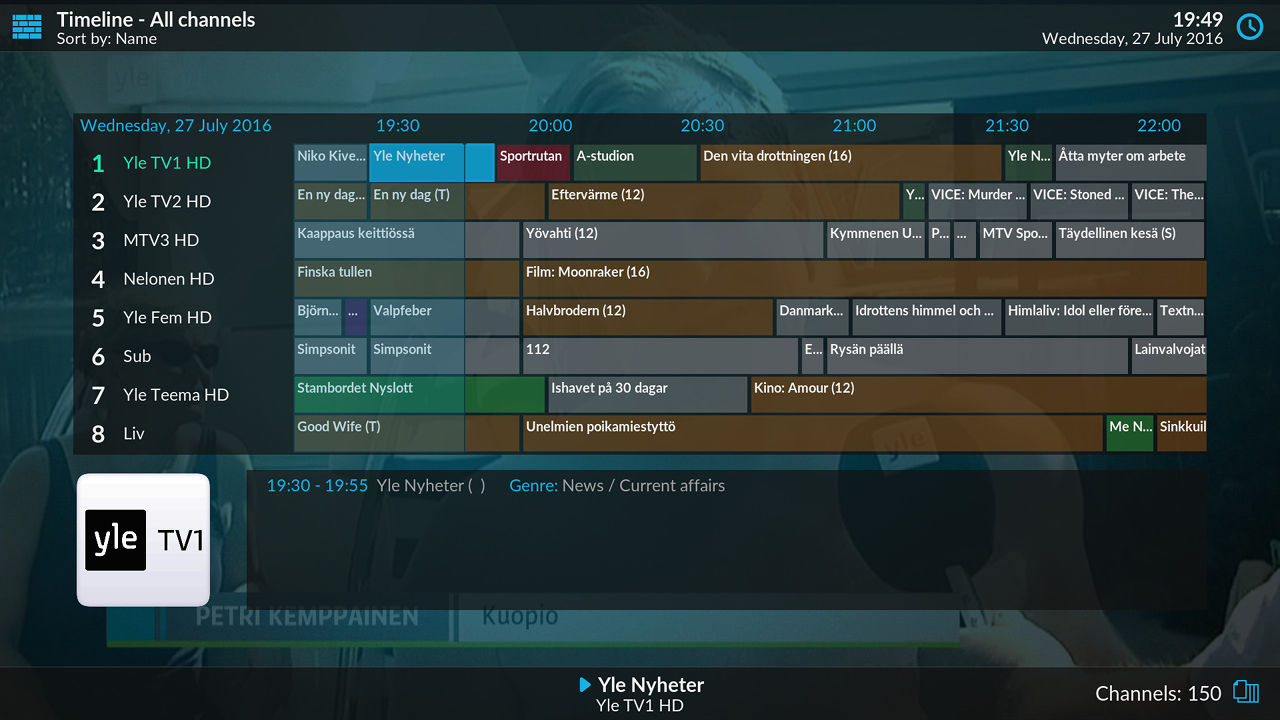
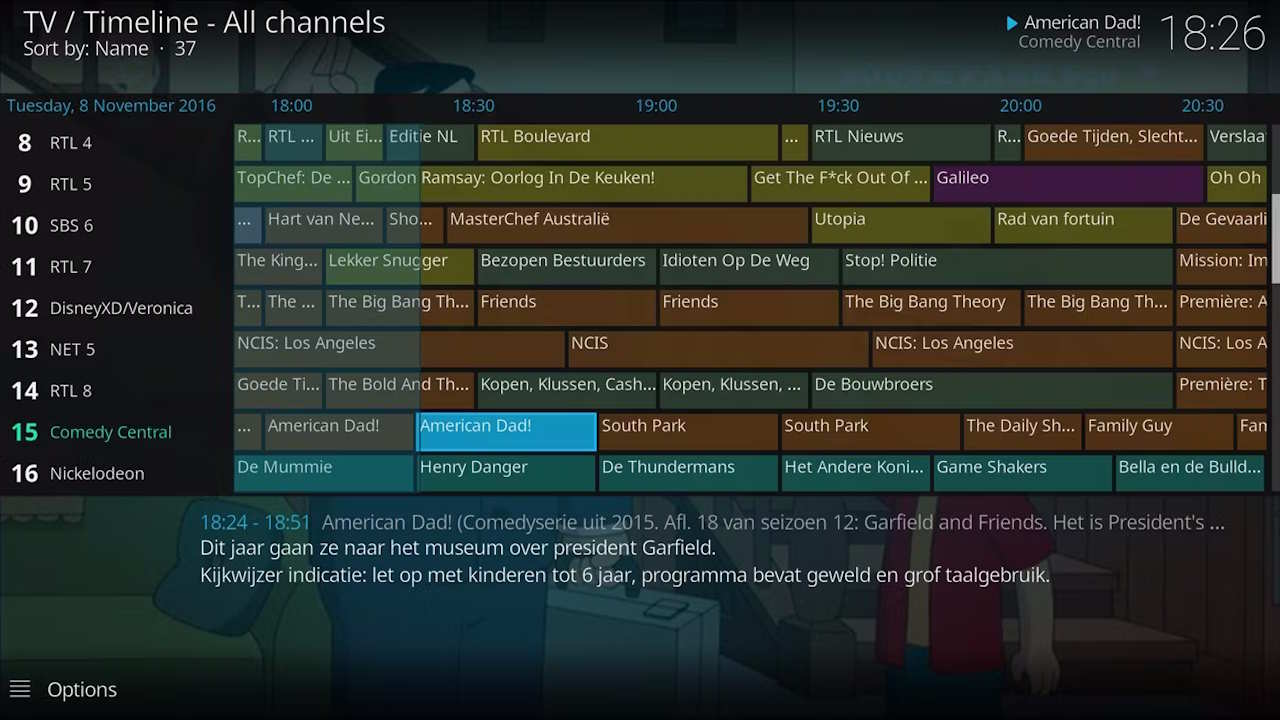
pics: adjust screenshots

diff --git a/index.html b/index.html
@@ -919,7 +919,7 @@
                 title: 'Native LibreELEC Settings Add-on',
                 desc: 'Dedicated 10-foot TV configuration suite. Manage Wi-Fi, Ethernet, and Bluetooth remotes, toggle SSH and Samba network shares, configure audio outputs, and perform automated one-click OTA system updates right from your sofa.',
                 tags: ['One-Click OTA Updates', 'Wi-Fi & Bluetooth Remotes', 'SSH & Samba Shares', 'Read-Only SquashFS'],
-                bg: 'img/preview/settings-libreelec-addon.png',
+                bg: 'img/preview/settings-libreelec-addon.jpg',
                 ctaText: 'Settings Guide',
                 ctaUrl: 'https://wiki.libreelec.tv/configuration/libreelec-settings',
                 secondaryText: 'USB Creator',

diff --git a/src/alpine.ts b/src/alpine.ts
@@ -211,7 +211,7 @@ export default (Alpine: Alpine) => {
           title: 'Native LibreELEC Settings Add-on',
           desc: 'Dedicated 10-foot TV configuration suite. Manage Wi-Fi, Ethernet, and Bluetooth remotes, toggle SSH and Samba network shares, configure audio outputs, and perform automated one-click OTA system updates right from your sofa.',
           tags: ['One-Click OTA Updates', 'Wi-Fi & Bluetooth Remotes', 'SSH & Samba Shares', 'Read-Only SquashFS'],
-          bg: previewImg('settings-libreelec-addon.png'),
+          bg: previewImg('settings-libreelec-addon.jpg'),
           ctaText: 'Settings Guide',
           ctaUrl: 'https://wiki.libreelec.tv/configuration/libreelec-settings',
           secondaryText: 'USB Creator',
